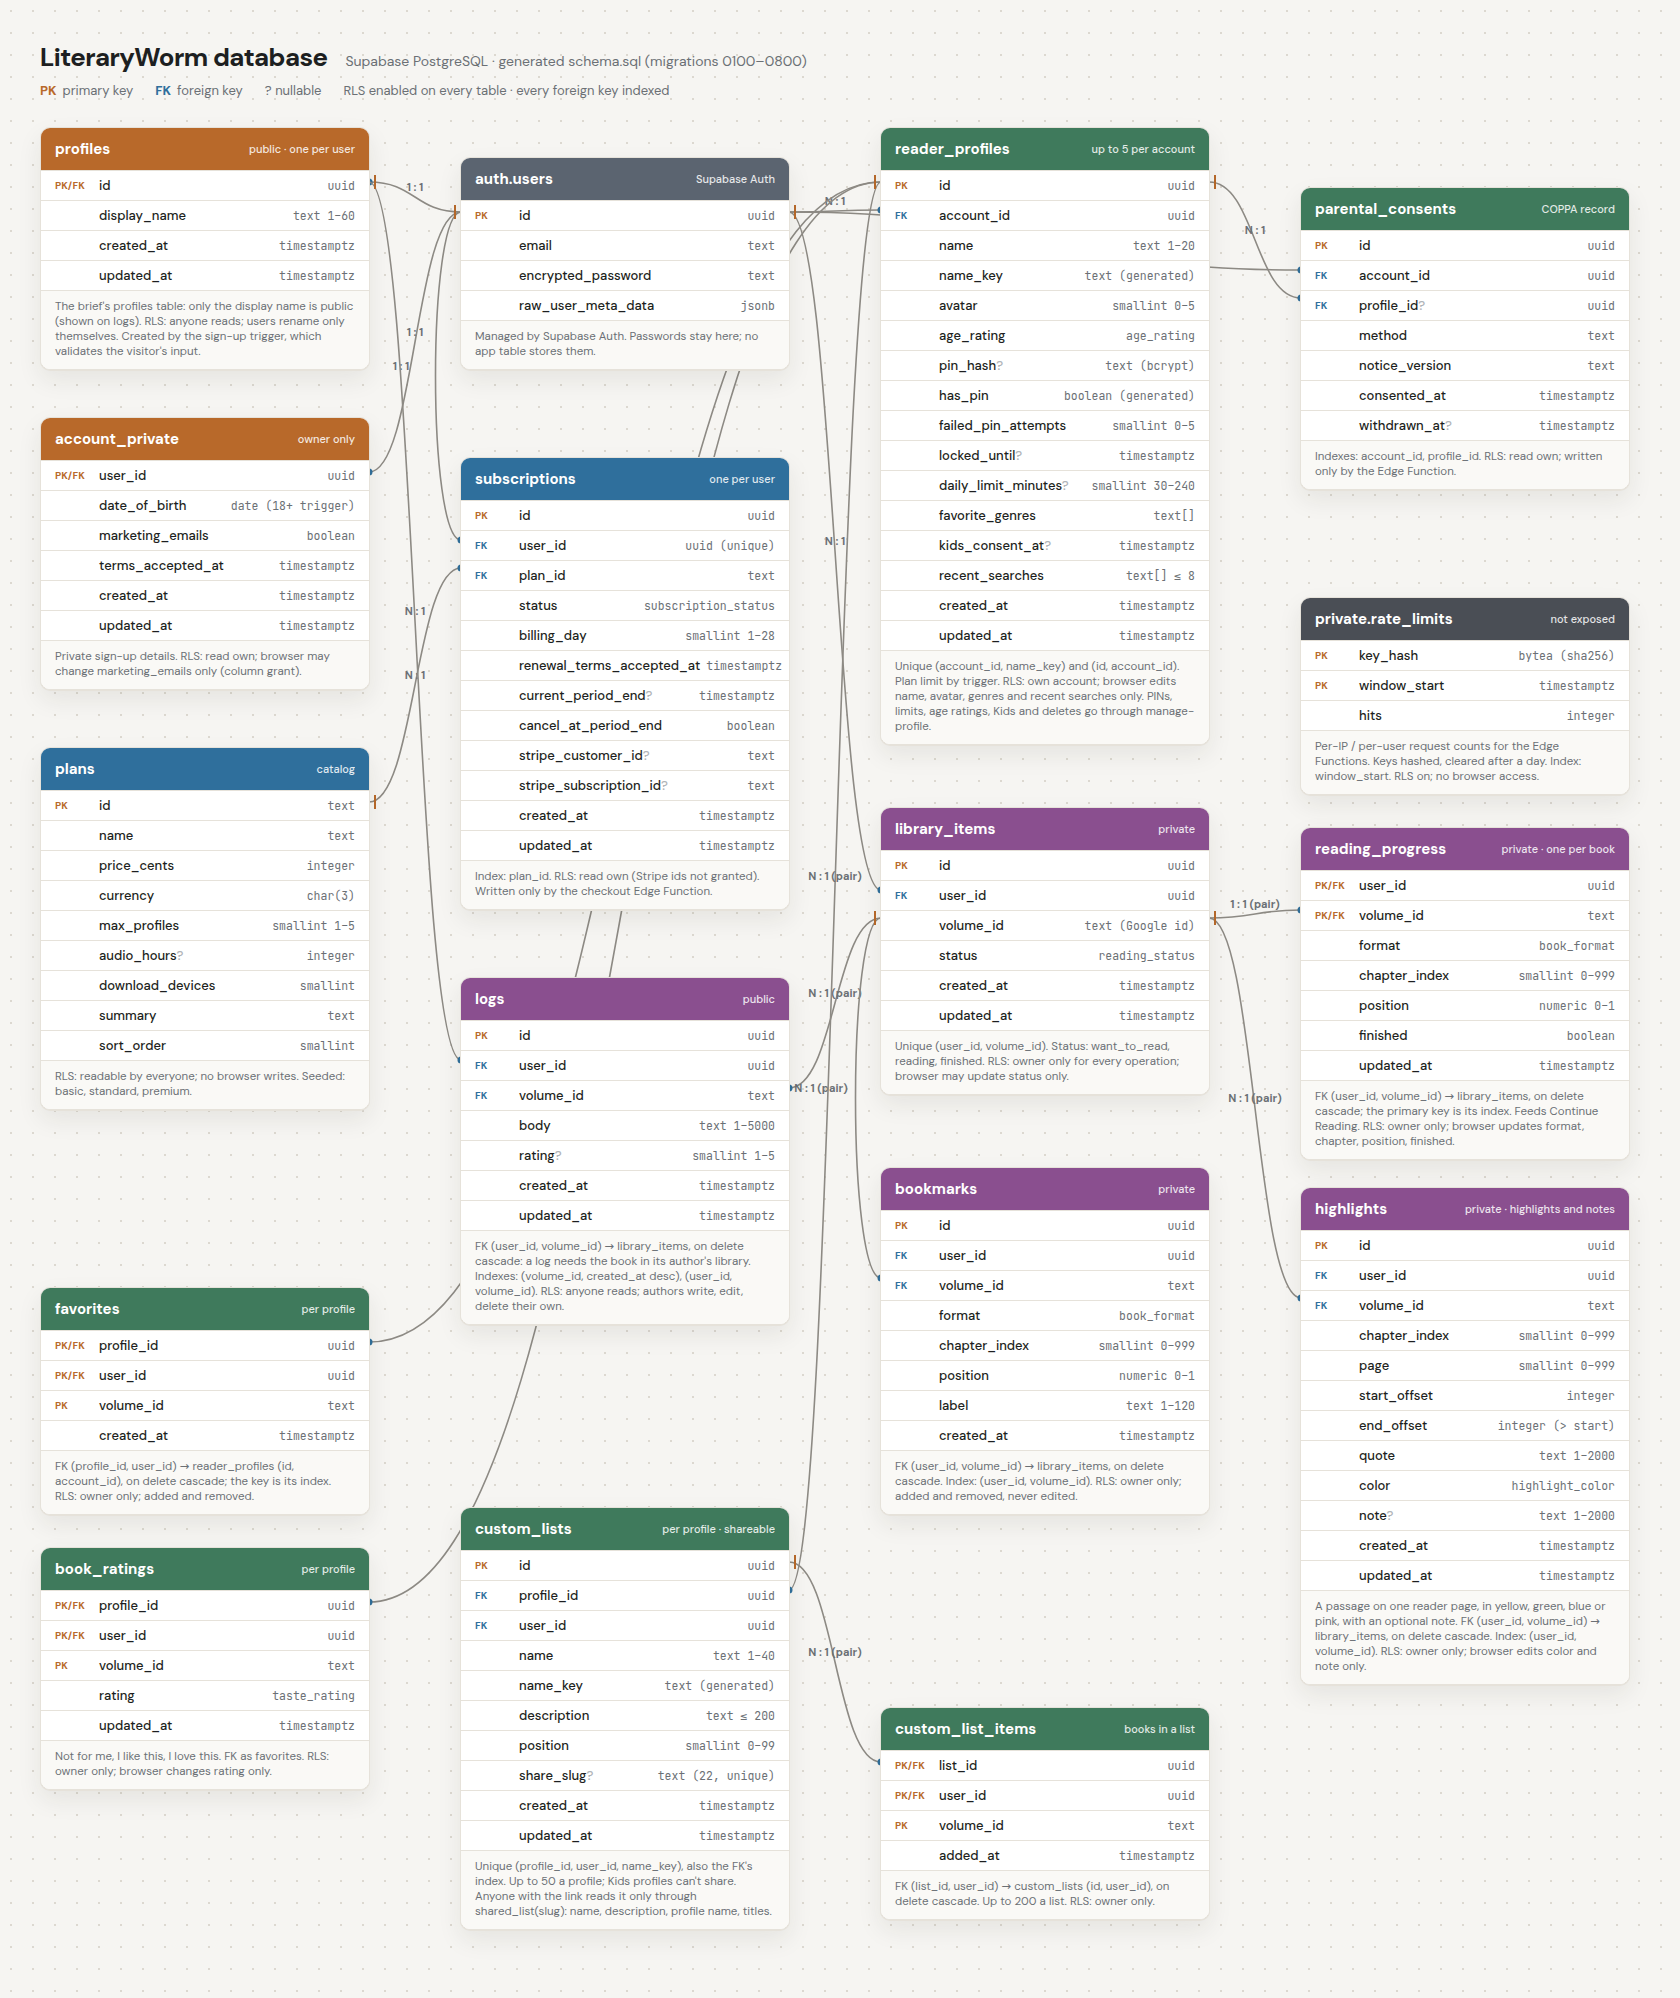
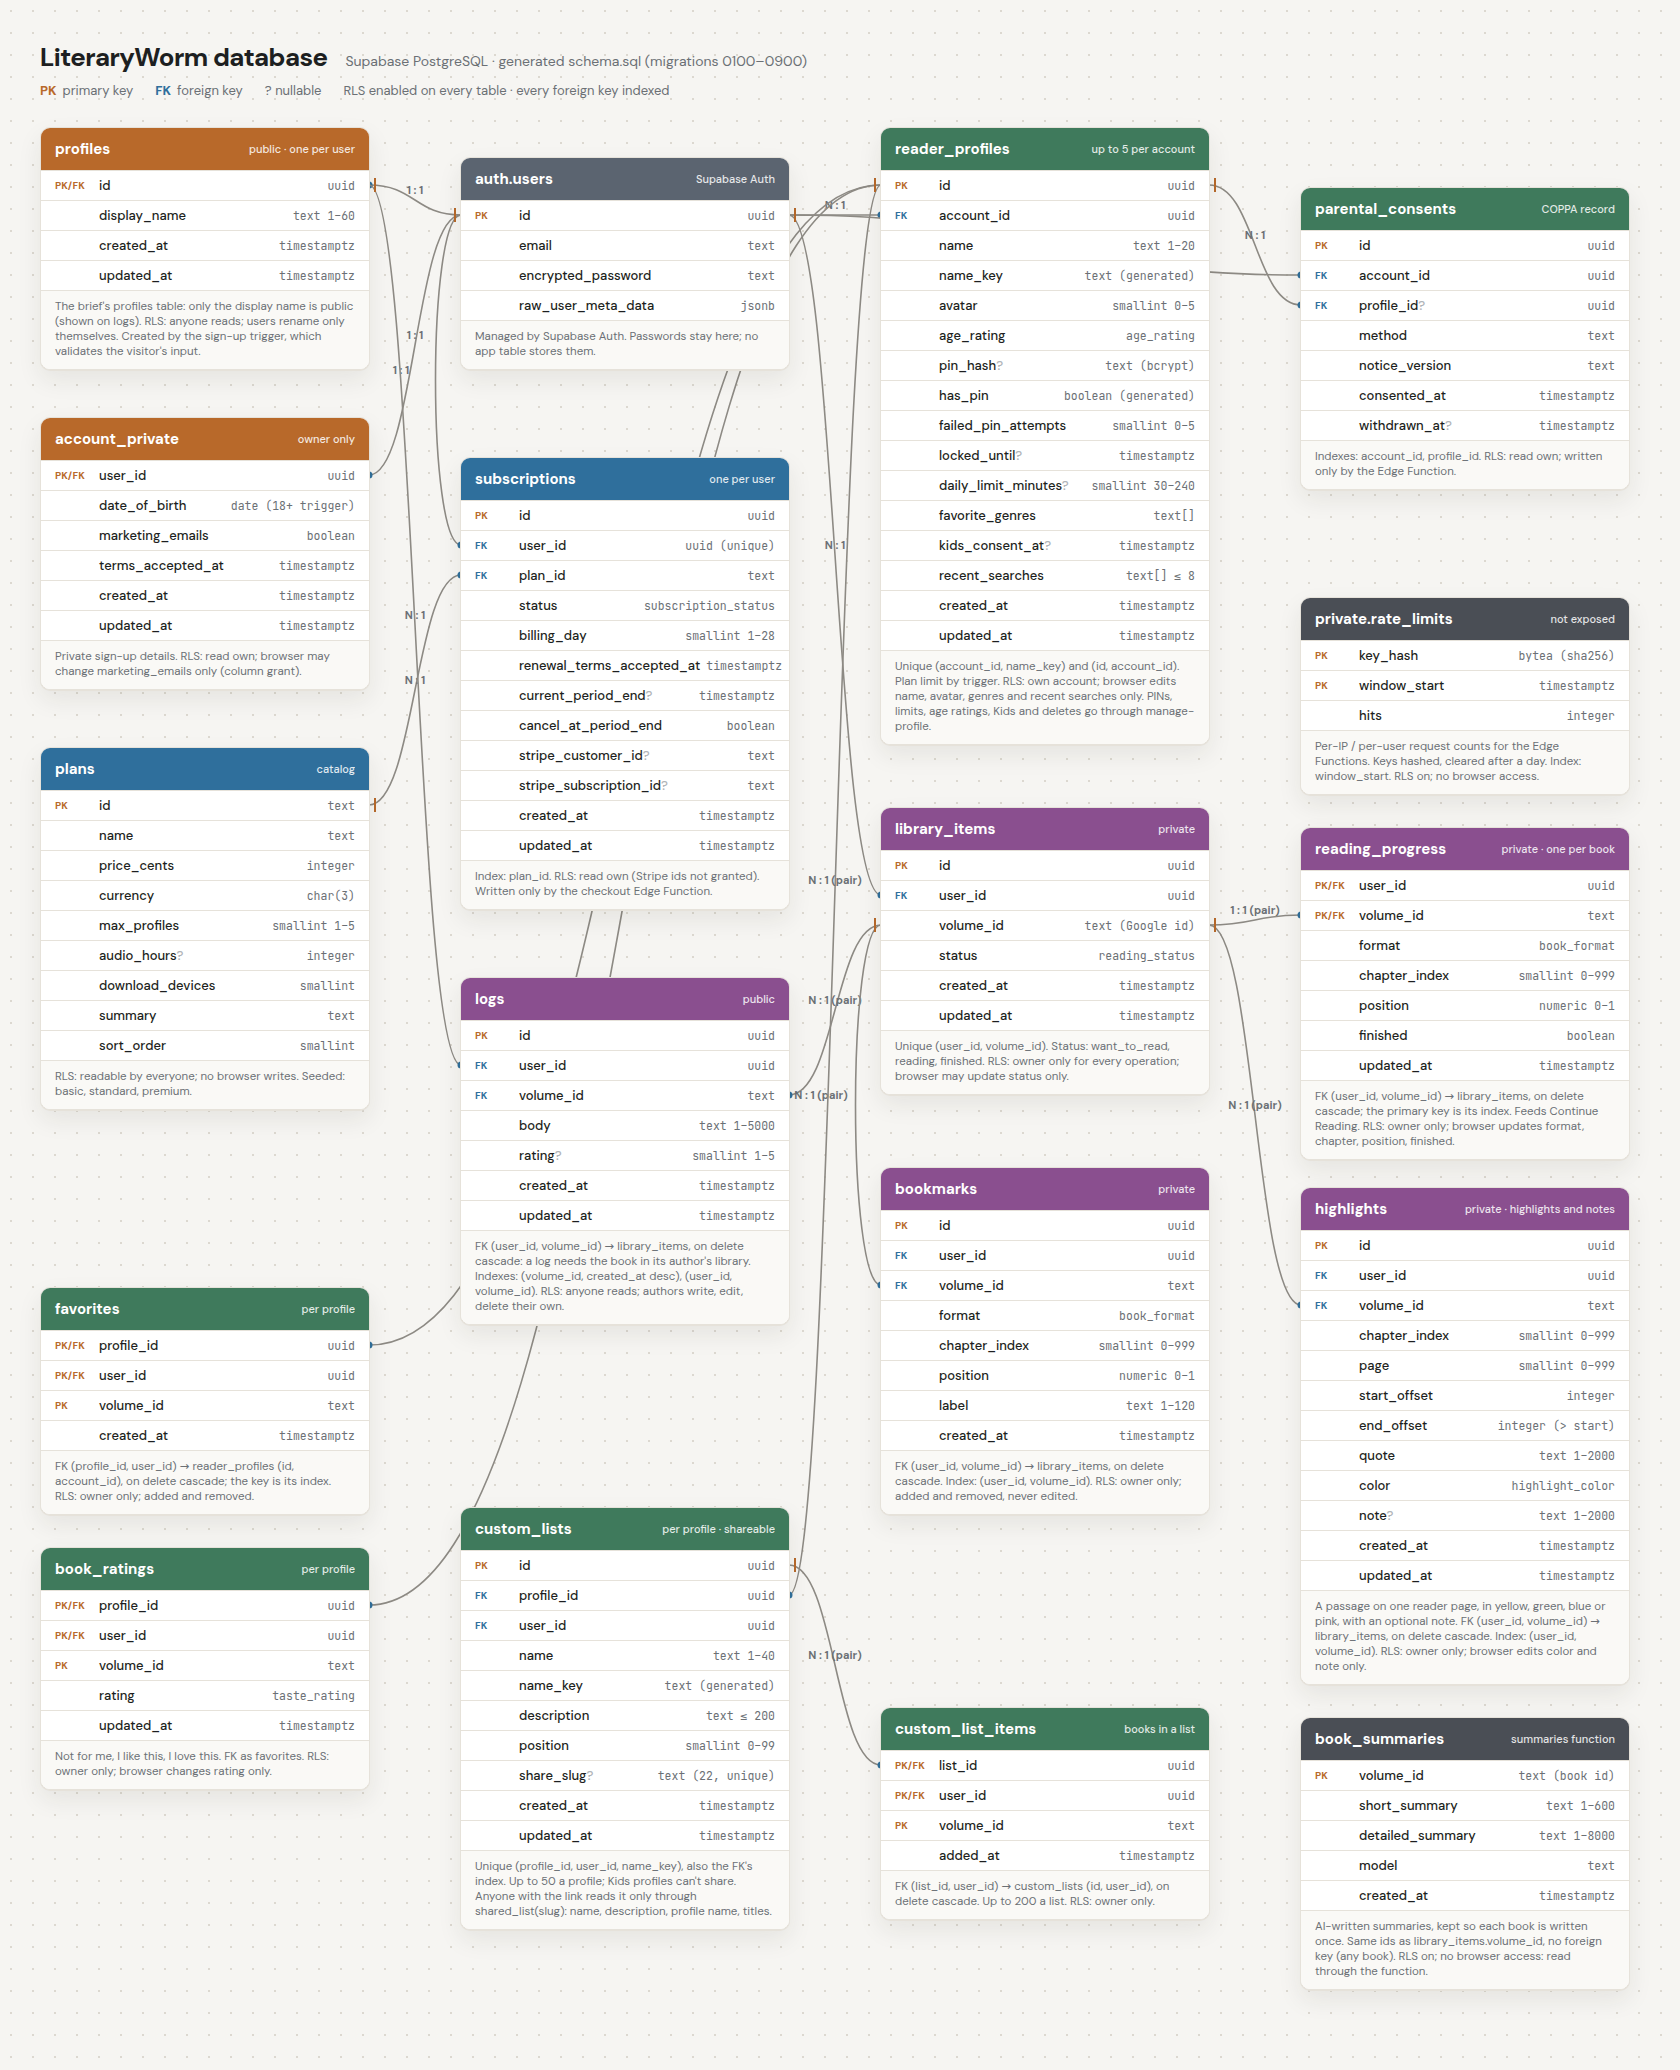
Schema and ERD: book_summaries table
schema.sql regenerated from the migrations (adds 20261028000900_book_summaries)
and drawsql.png re-rendered with the new table: volume_id, short_summary,
detailed_summary, model, created_at; RLS on, no browser access.

diff --git a/docs/erd/erd.html b/docs/erd/erd.html
@@ -87,7 +87,7 @@
 
     <script>
       // ---- Keep in sync with schema.sql -------------------------------------------------
-      const subtitle = "Supabase PostgreSQL · generated schema.sql (migrations 0100–0800)";
+      const subtitle = "Supabase PostgreSQL · generated schema.sql (migrations 0100–0900)";
 
       const colors = {
         auth: "#5b6470", account: "#b8692a", billing: "#2f6f9c", household: "#3f7a5c",
@@ -321,6 +321,17 @@
             ["", "hits", "integer"],
           ],
           note: "Per-IP / per-user request counts for the Edge Functions. Keys hashed, cleared after a day. Index: window_start. RLS on; no browser access.",
+        },
+        {
+          id: "book_summaries", color: colors.server, x: 1260, y: 1590, sub: "summaries function",
+          cols: [
+            ["pk", "volume_id", "text (book id)"],
+            ["", "short_summary", "text 1–600"],
+            ["", "detailed_summary", "text 1–8000"],
+            ["", "model", "text"],
+            ["", "created_at", "timestamptz"],
+          ],
+          note: "AI-written summaries, kept so each book is written once. Same ids as library_items.volume_id, no foreign key (any book). RLS on; no browser access: read through the function.",
         },
       ];
 
